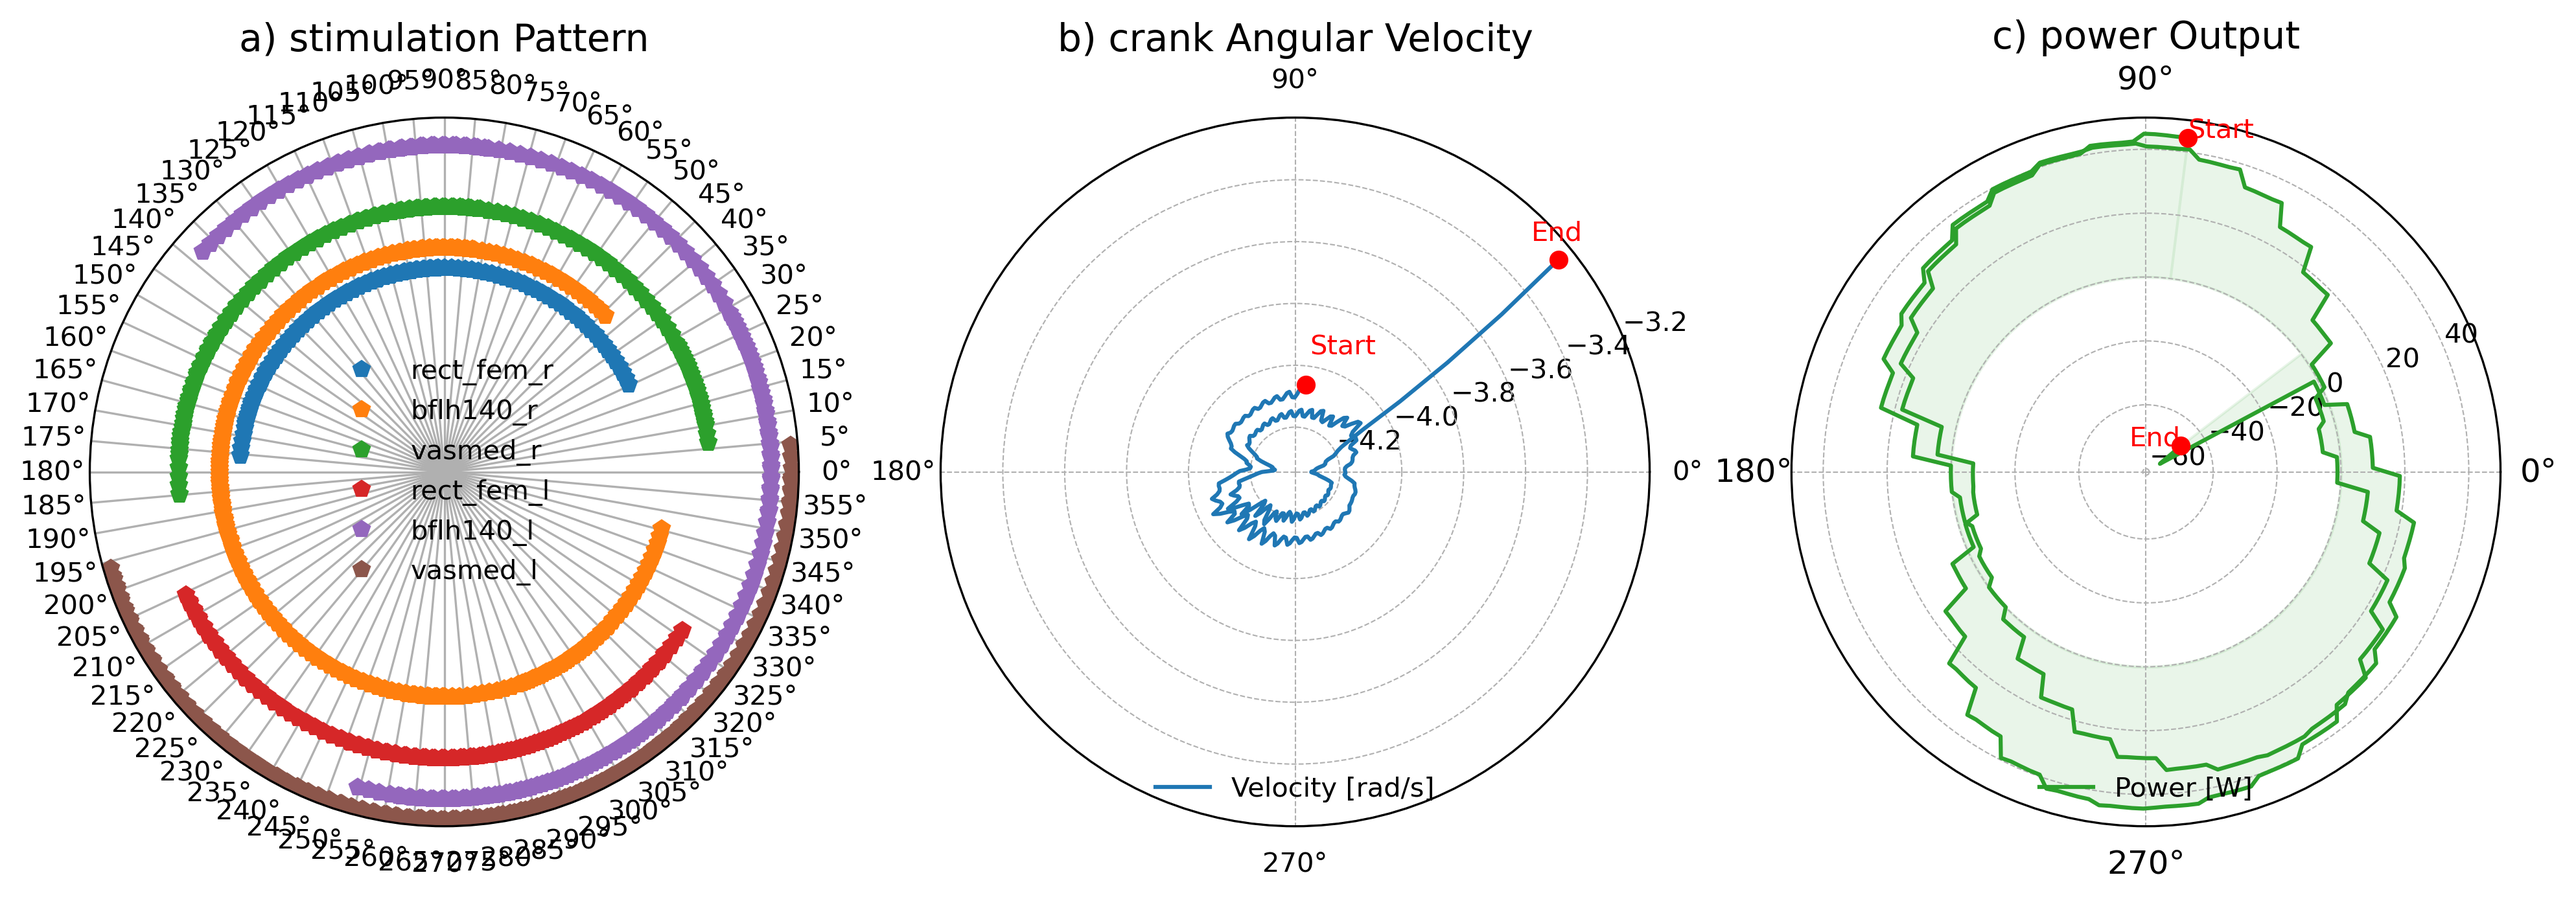
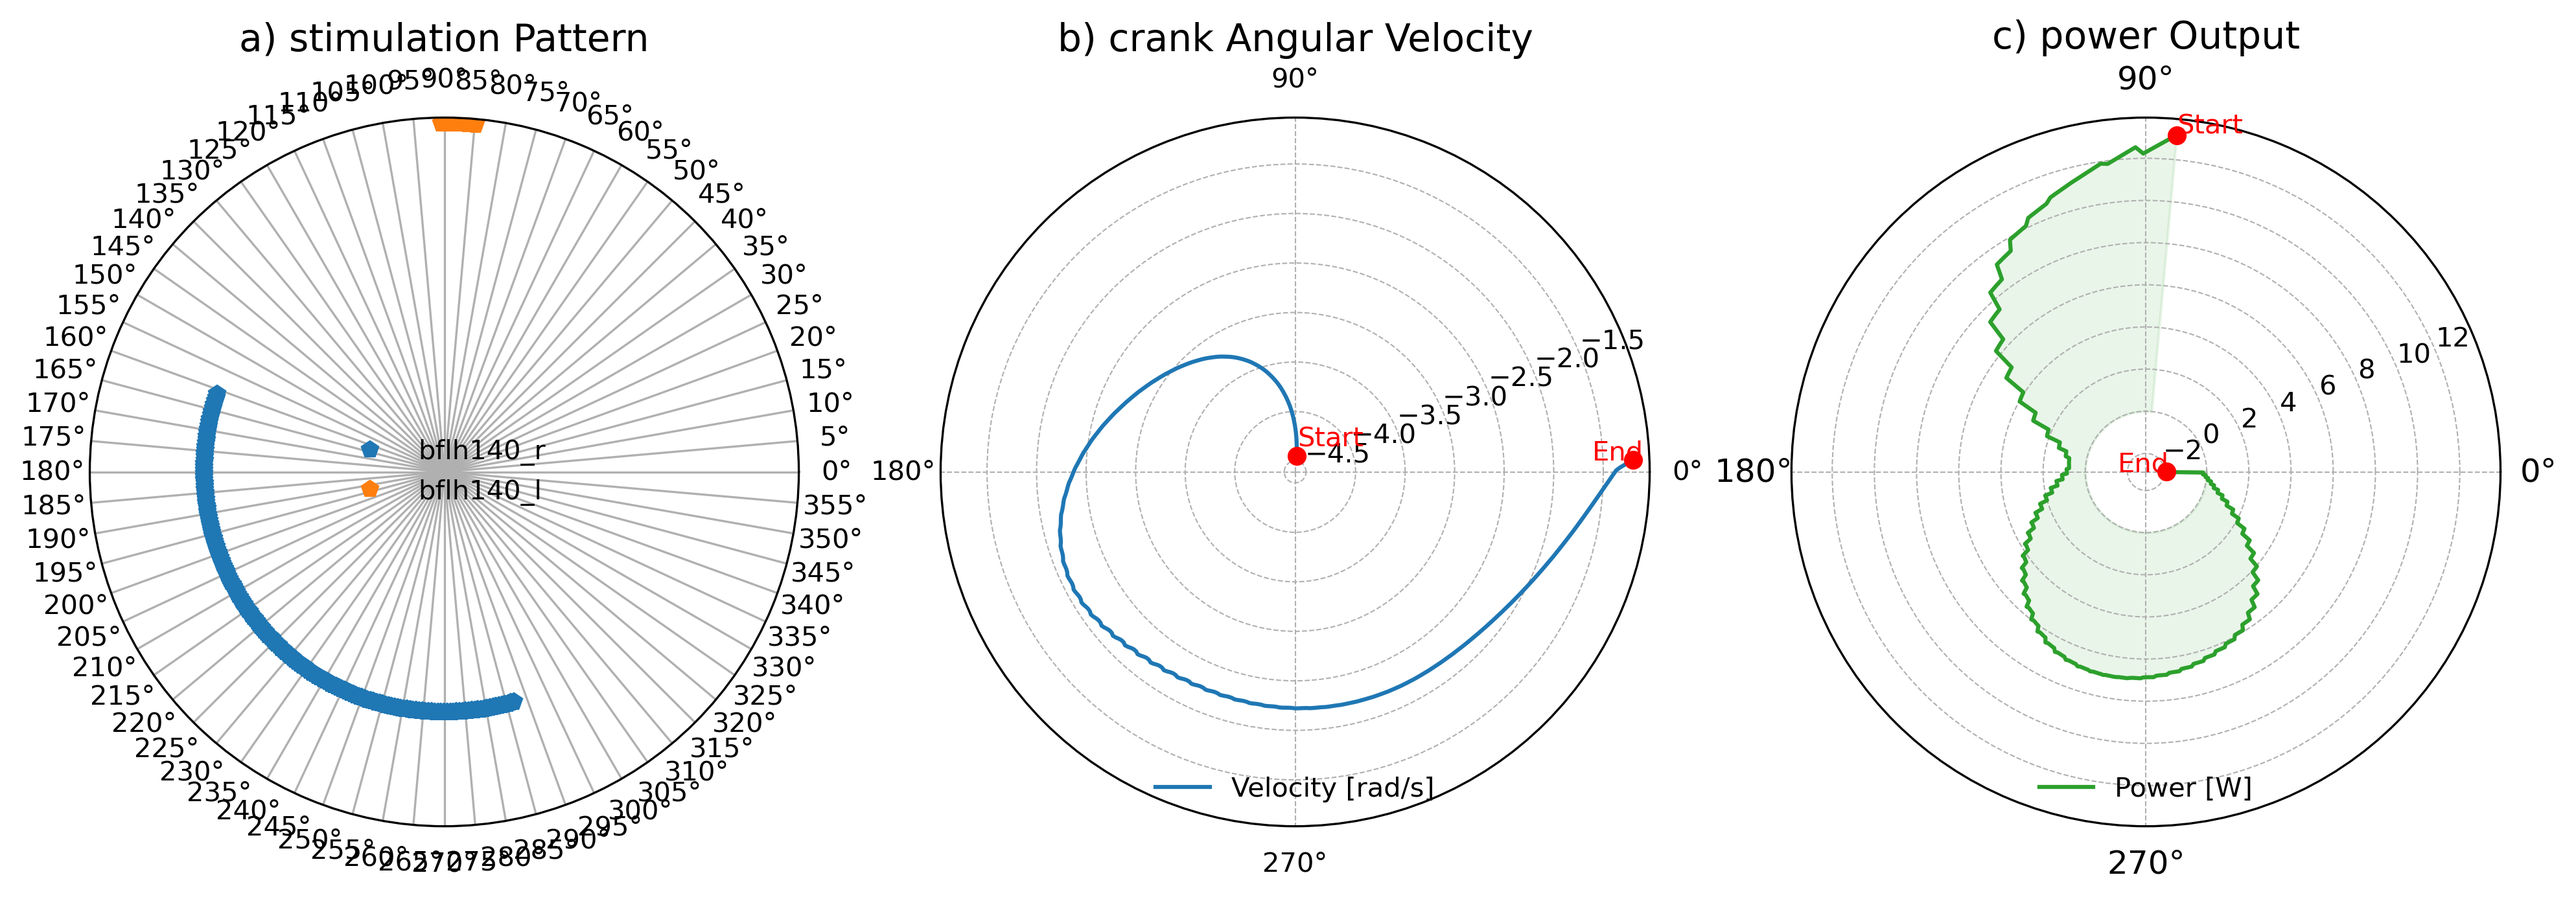
fixing frequency parameter to 35Hz.

diff --git a/sandbox/FES_leg_pedalling.py b/sandbox/FES_leg_pedalling.py
@@ -95,11 +95,11 @@ def prepare_ocp(
 
     # Add objective functions
     objective_functions = ObjectiveList()
-    objective_functions.add(ObjectiveFcn.Lagrange.MINIMIZE_STATE, key="q", weight=1e0)
+    # objective_functions.add(ObjectiveFcn.Lagrange.MINIMIZE_STATE, key="q", weight=1e0)
     objective_functions.add(ObjectiveFcn.Lagrange.MINIMIZE_STATE, key="qdot", weight=1e1)
-    # objective_functions.add(ObjectiveFcn.Lagrange.MINIMIZE_CONTROL, key="pw", weight=1e-1)
+    objective_functions.add(ObjectiveFcn.Lagrange.MINIMIZE_CONTROL, key="pw", weight=0.5)
     # objective_functions.add(ObjectiveFcn.Lagrange.MINIMIZE_STATE, key="cn", weight=1e1)
-    # objective_functions.add(ObjectiveFcn.Lagrange.MINIMIZE_STATE, key="f", weight=1e0)
+    objective_functions.add(ObjectiveFcn.Lagrange.MINIMIZE_STATE, key="f", weight=0.2)
     # if with_friction:
     #     objective_functions.add(
     #         FesObjective.custom_func_maximize_crank_power,
@@ -145,7 +145,7 @@ def prepare_ocp(
     #         mus_num_1=muscles.index('bflh140_r'),
     #         mus_num_2=muscles.index('bflh140_l'),
     #         quadratic=True,
-    #         weight=1e4,
+    #         weight=1e2,
     #     )
     # todo: verify if Lagrange objective is better while trying to achieve lower co-contraction
     objective_functions.add(
@@ -259,7 +259,7 @@ tau_min, tau_max, tau_init = 0.00, 0.00, 0.0
 # fes_min, fes_max, fes_init = 86e-6, 1600e-6, 86e-6  # todo: verificar scala?
 alpha_min, alpha_max, alpha_init = -1.0, 2.0, 0.0
 # pd_offset = fes_min
-stim_freq = 25  # stimulation frequency in Hertz
+stim_freq = 35  # stimulation frequency in Hertz
 n_pulse_trunc = 5
 phase_period = round(1 / stim_freq, 3)
 # pd0 = 1.11878174e-04

diff --git a/sandbox/custom_package/fes_objectives.py b/sandbox/custom_package/fes_objectives.py
@@ -105,7 +105,7 @@ class FesObjective():
 
 
     def custom_func_minimize_cocontraction(controller: PenaltyController, mus_num_1: int, mus_num_2: int) -> MX:
-        activations = controller.controls["pw"].cx_start
+        activations = controller.controls["pw"].cx
         return activations[mus_num_1] * activations[mus_num_2]
 
 
